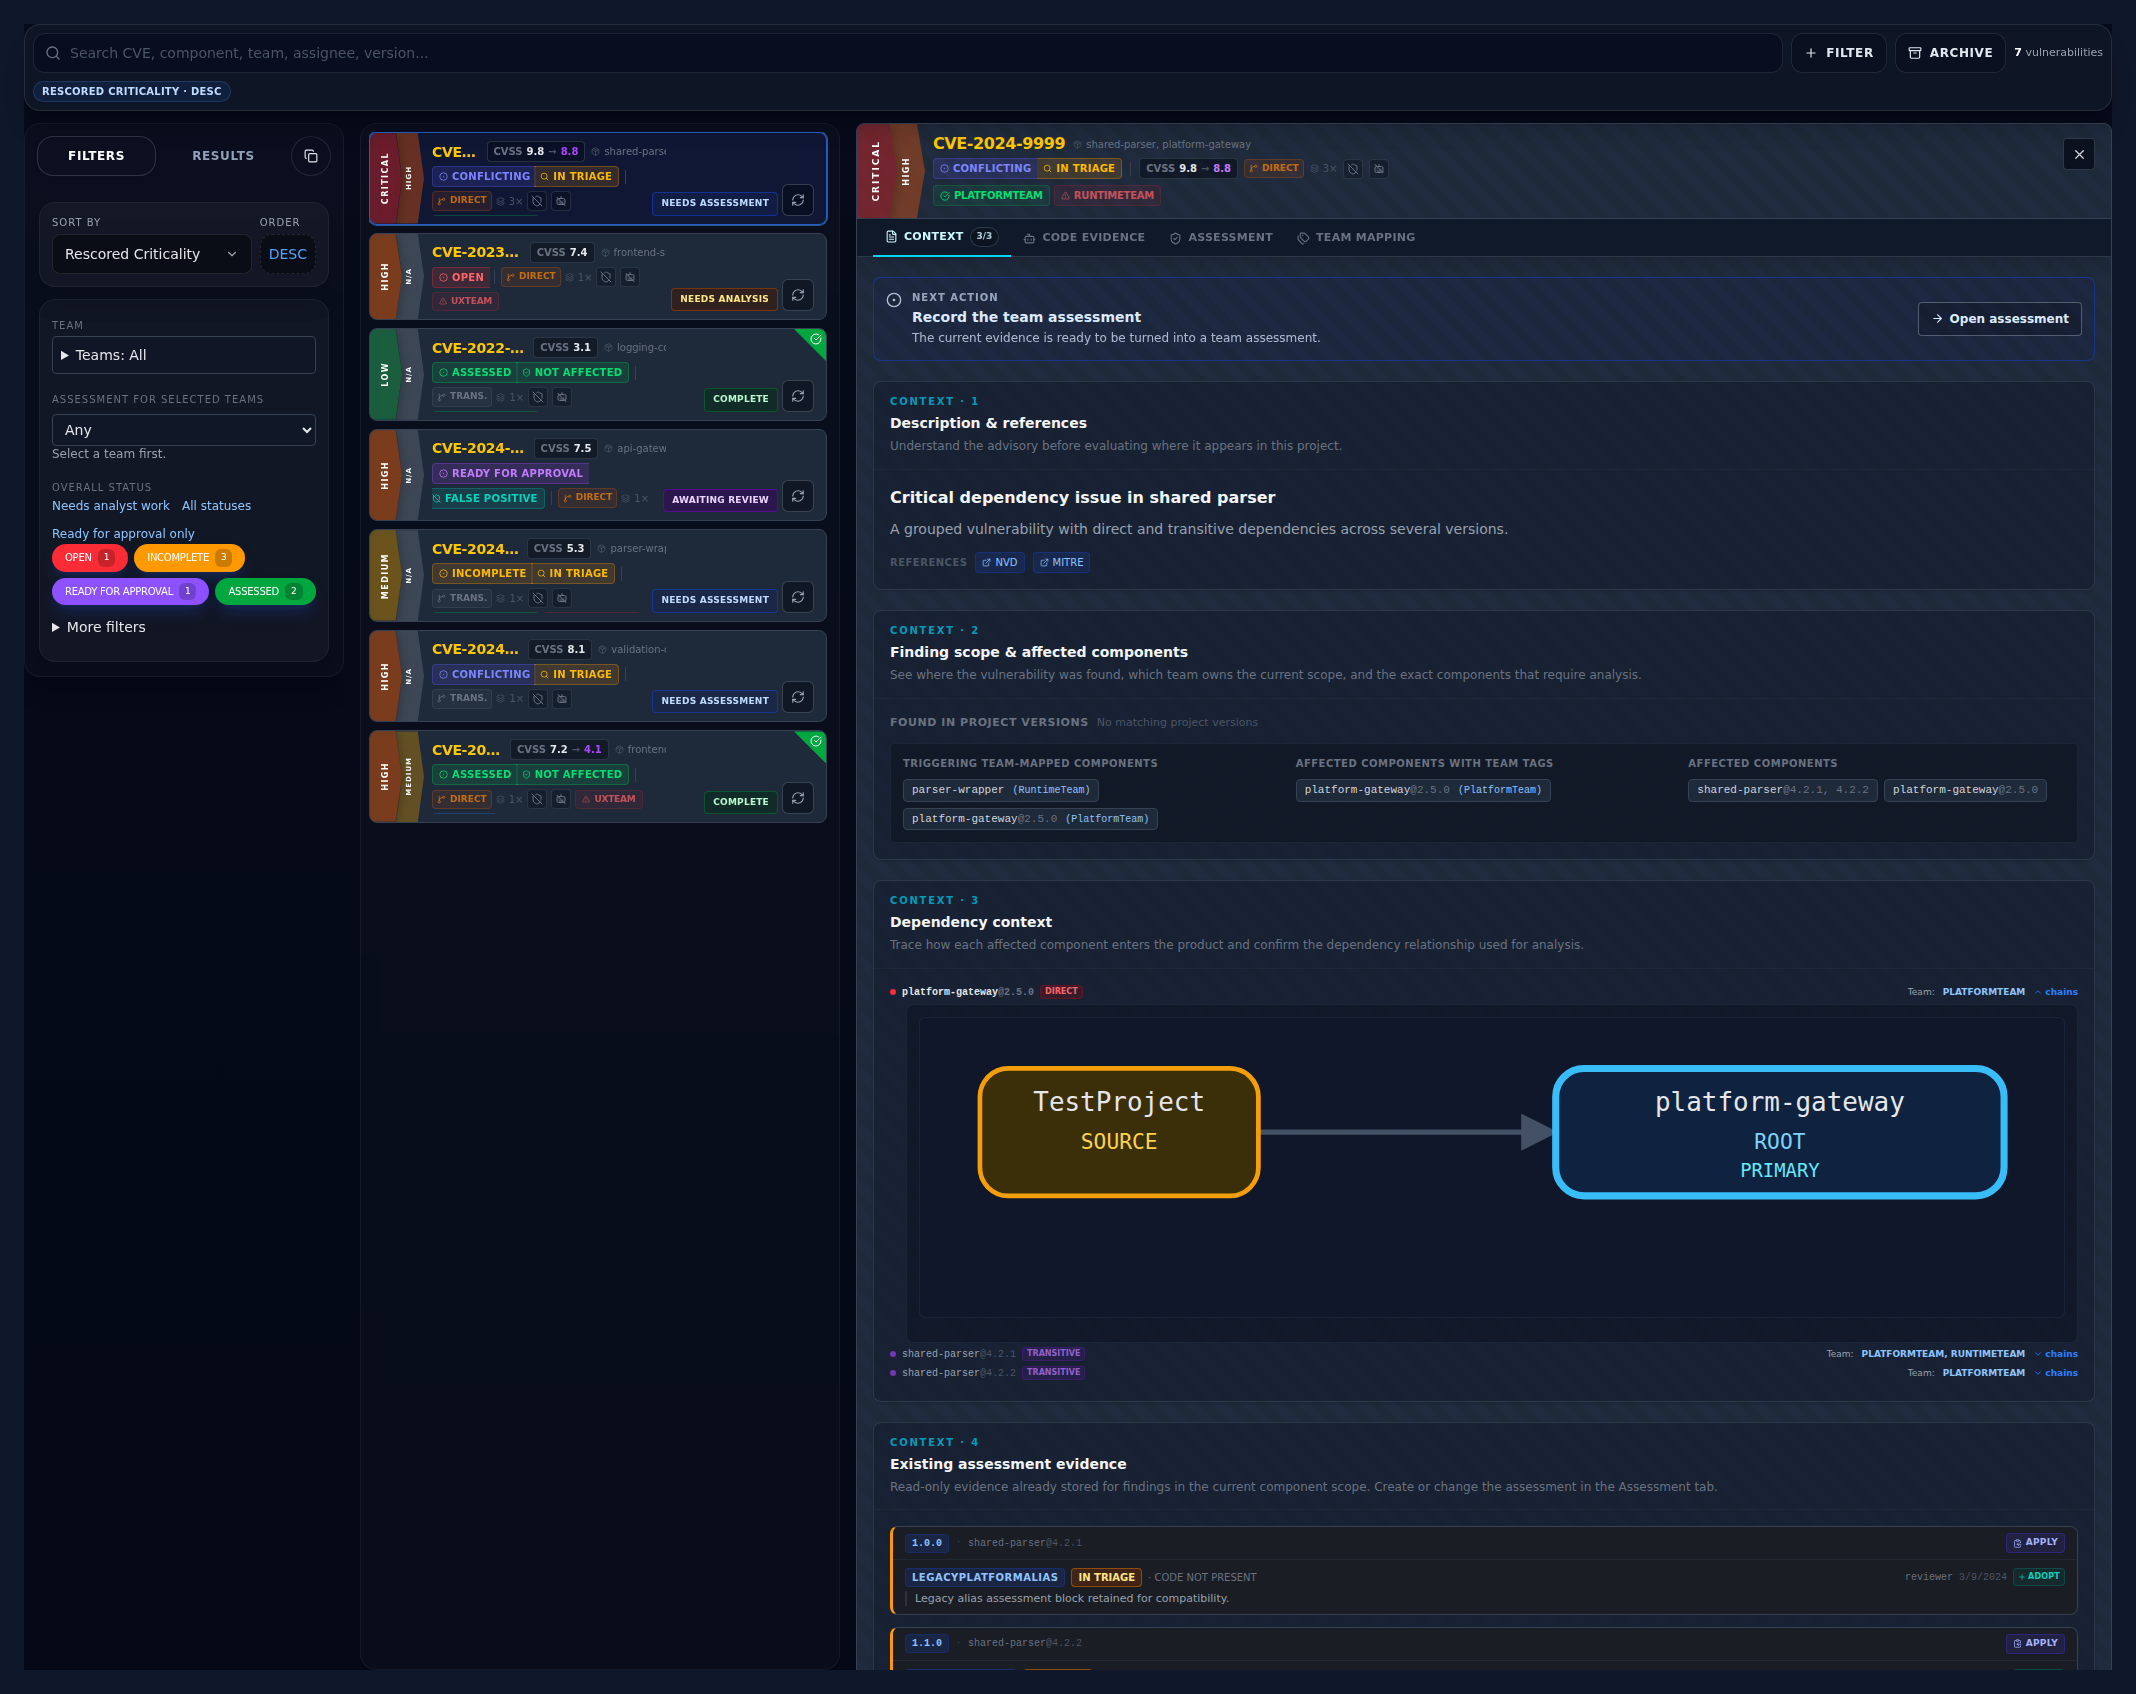
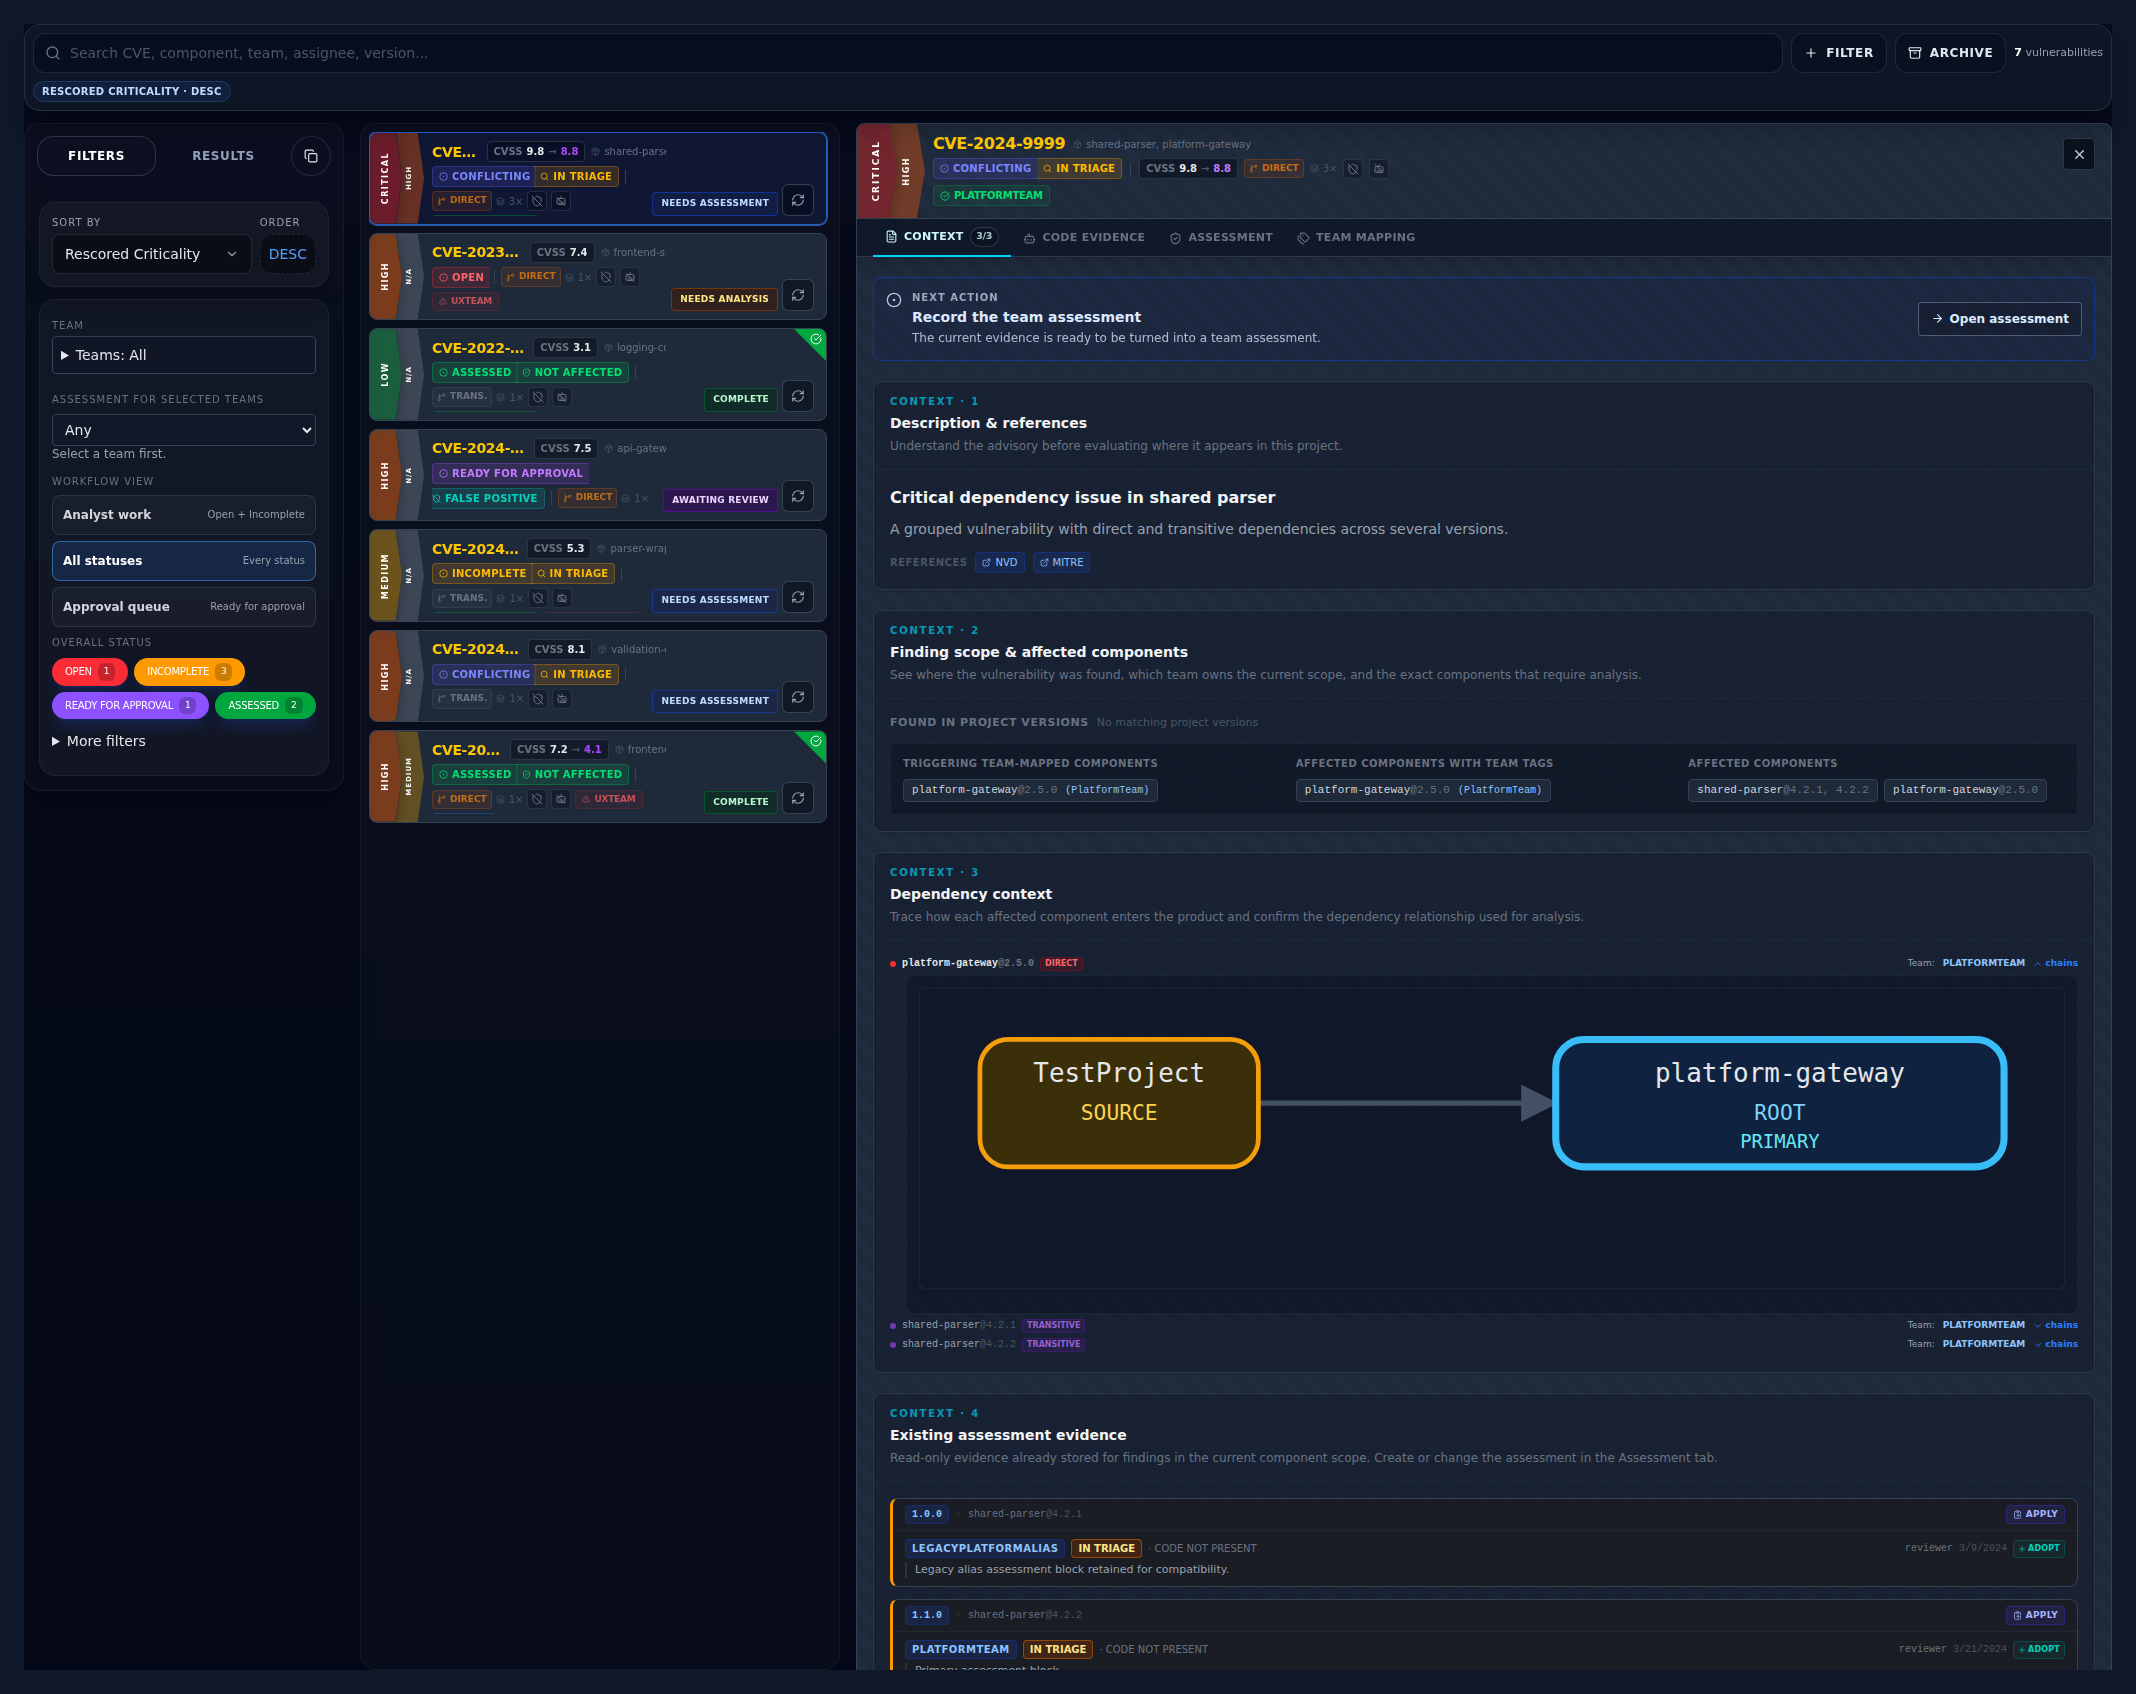
docs: regenerate screenshots for the combined repair dialog
Update the capture script for the Repair Assessments workflow and fix
three capture steps that had fallen behind the sidebar redesign.

diff --git a/frontend/e2e/capture-readme-screenshots.manual.ts b/frontend/e2e/capture-readme-screenshots.manual.ts
@@ -1480,7 +1480,7 @@ test.describe('Capture README screenshots', () => {
         const sidebar = page.getByTestId('stats-sidebar')
         const resultsPanel = page.getByTestId('stats-sidebar-results')
         await expect(resultsPanel).toBeVisible({ timeout: 5000 })
-        await expect(resultsPanel.getByText('7 Vulnerabilities')).toBeVisible({ timeout: 5000 })
+        await expect(resultsPanel.getByText('7 Vulnerabilities', { exact: true })).toBeVisible({ timeout: 5000 })
         await expect(resultsPanel.getByText('Per Team')).toBeVisible({ timeout: 5000 })
         await expect(resultsPanel.getByText('Cache Status')).toBeVisible({ timeout: 5000 })
 
@@ -1513,7 +1513,8 @@ test.describe('Capture README screenshots', () => {
         await expect(autoCard.locator('[data-testid="automatic-assessment-badge"]')).toBeVisible({ timeout: 10000 })
 
         const sidebar = page.getByTestId('stats-sidebar')
-        await expect(sidebar.getByText('Automatic Assessment')).toBeVisible({ timeout: 10000 })
+        await sidebar.getByText('More filters', { exact: true }).click()
+        await expect(sidebar.getByText('Automatic Assessment', { exact: true })).toBeVisible({ timeout: 10000 })
 
         const automaticAssessmentFilters = sidebar
             .getByText('Automatic Assessment', { exact: true })
@@ -1540,7 +1541,7 @@ test.describe('Capture README screenshots', () => {
         await page.waitForTimeout(2000)
 
         // Should show the conflicting team blocks (PlatformTeam: IN_TRIAGE vs EdgeTeam: NOT_AFFECTED)
-        await expect(page.getByText('PlatformTeam').first()).toBeVisible({ timeout: 10000 })
+        await expect(card.getByText('PlatformTeam').first()).toBeVisible({ timeout: 10000 })
 
         await captureWithPadding(card, '../docs/screenshots/inconsistent-assessment.png')
     })
@@ -1571,9 +1572,9 @@ test.describe('Capture README screenshots', () => {
 
     test('capture bulk sync modal screenshot', async ({ page }) => {
         const workflow = {
-            id: 'incomplete-sync',
-            label: 'Sync Incomplete Assessments',
-            description: 'Copy the existing consistent assessment to findings where it is missing.',
+            id: 'assessment-repair',
+            label: 'Repair Assessments',
+            description: 'Synchronize partial assessments, move assessments of former teams into the global assessment, restore lost CVSS vectors, and repair rule-based rescoring.',
             supports_apply: true,
             supports_document: false,
             version: 1,
@@ -1586,7 +1587,7 @@ test.describe('Capture README screenshots', () => {
                 workflows: [{ ...workflow, candidate_count: 1, summary: { groups: 1 } }],
             }),
         }))
-        await page.route('**/api/bulk-workflows/incomplete-sync/preview-task', route => route.fulfill({
+        await page.route('**/api/bulk-workflows/assessment-repair/preview-task', route => route.fulfill({
             status: 200,
             contentType: 'application/json',
             body: JSON.stringify({ task_id: 'docs-bulk-preview' }),
@@ -1603,7 +1604,18 @@ test.describe('Capture README screenshots', () => {
                     workflow,
                     preview_token: 'docs-preview-token',
                     selectable_group_ids: ['CVE-2024-4002'],
-                    items: [{ group_id: 'CVE-2024-4002', finding_count: 2, block_count: 1 }],
+                    items: [{
+                        group_id: 'CVE-2024-4002',
+                        title: 'Prototype pollution in request parser',
+                        finding_count: 2,
+                        repairable: true,
+                        repairs: [
+                            { id: 'sync_findings', label: 'Synchronize assessment to 1 finding' },
+                            { id: 'former_teams', label: 'Move former team assessment to global notes: Platform' },
+                        ],
+                        review: [],
+                        rescore_findings: [],
+                    }],
                     summary: { groups: 1, findings: 2 },
                 },
             }),
@@ -1616,8 +1628,8 @@ test.describe('Capture README screenshots', () => {
         await page.getByRole('button', { name: 'Bulk Changes' }).click()
         const modal = page.locator('.fixed.inset-0').filter({ hasText: 'Bulk Changes' }).first()
         await expect(modal).toBeVisible({ timeout: 10000 })
-        await modal.getByTestId('bulk-workflow-incomplete-sync').click()
-        await expect(modal.getByRole('heading', { name: 'Sync Incomplete Assessments' })).toBeVisible({ timeout: 10000 })
+        await modal.getByTestId('bulk-workflow-assessment-repair').click()
+        await expect(modal.getByRole('heading', { name: 'Repair Assessments' })).toBeVisible({ timeout: 10000 })
 
         await captureWithPadding(modal, '../docs/screenshots/bulk-sync-modal.png')
     })

diff --git a/docs/screens.md b/docs/screens.md
@@ -102,11 +102,11 @@ The Global subview of Assessment contains the vector editor, visual calculator e
 
 The CVSS modal provides an interactive vector editor for contextual score adjustments.
 
-### Bulk Sync Modal
+### Bulk Changes Dialog
 
-![Bulk sync modal](screenshots/bulk-sync-modal.png)
+![Bulk Changes dialog](screenshots/bulk-sync-modal.png)
 
-Reviewer bulk sync summarizes incomplete assessments before applying consistent state and details in one action.
+The Bulk Changes dialog previews the selected workflow before applying it in one action. Repair Assessments labels each applicable repair per vulnerability.
 
 ### Conflict Resolution
 
